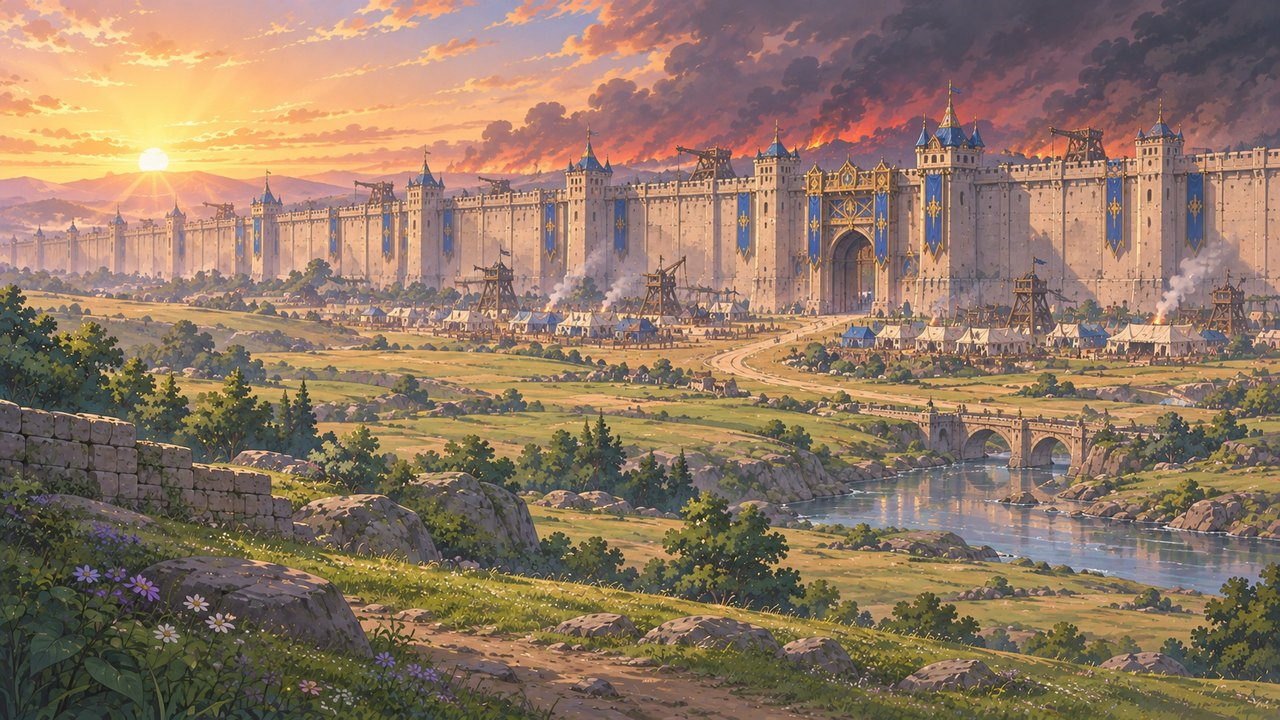
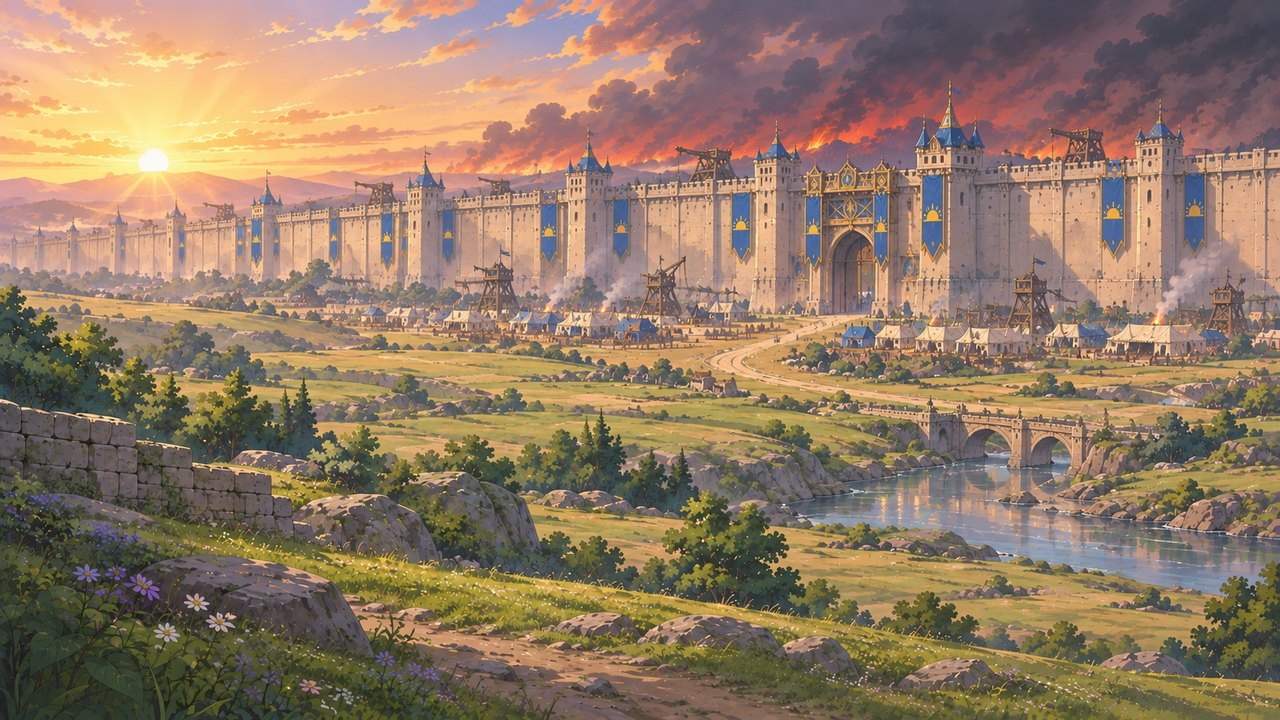
Mur d'Aube : bannières au soleil levant (retouche)
Claude-Session: https://claude.ai/code/session_017nNRFCQnckzBacTNwNAqUZ

diff --git a/CLAUDE.md b/CLAUDE.md
@@ -23,7 +23,7 @@ Si une demande est floue ou contradictoire : poser la question plutôt que devin
 - [x] **Mise à jour 5 (retours de test, version web, 16/11)** : 8 points, voir « Décisions de la mise à jour 5 » et `rapports/changements-test-5.md`. **Roblox doit la reprendre** (liste « À reprendre — mise à jour 5 » dans `roblox/README-ROBLOX.md`). Image du Golem de la Fontaine et calque de l'héroïne naine (tresses) validés le 16/11.
 - [x] **Quêtes secondaires « du monde » (18/11, à valider par le groupe)** : 7 quêtes (2 au chapitre 1, puis 1 par chapitre) dans de nouveaux fichiers `content/campagne/saison-1/chapitre-N/quetes-monde.yaml` (lieux, PNJ, décors et combats existants, aucune image à faire) ; elles préparent les révélations (Appels et Voile, éther, Orvan trahi). Textes, choix et drapeaux : `rapports/quetes-monde.md` ; test `tests/quetes-monde.test.ts`. Roblox : régénérer le contenu.
 - [x] **Lecteur de cinématiques (19/11, web)** : champ `cinematique: <id>` d'une scène (`ch1-appel` → `appel`, `ch1-lanternes` → `lanternes`) ; vidéo `assets/cinematiques/<id>.mp4` jouée en plein cadre au premier nœud, bouton « Passer » (Échap), retenue « vue » par appareil et par partie (`src/ui/Cinematique.svelte`, `src/ui/cinematiques.ts`). Sans fichier, rien ne change. **Vidéos livrées le 23/11** (montages muets de Sasha, réencodés en H.264 CRF 25 : `appel.mp4` 46 s, 8,6 Mo ; `lanternes.mp4` 40 s, 11,3 Mo) ; le groupe peut encore demander des changements. Quand un robot de test pilote le navigateur (Playwright), la vidéo est masquée sauf avec `?cinematique` dans l'adresse (`masqueParRobot`). Tests : `tests/cinematiques.test.ts`, `tests/e2e/cinematique.mjs` (s'arrête sans rien vérifier s'il n'y a pas de vidéo).
-- [x] **Écrans de début de chapitre (23/11, web)** : grande illustration peinte + « Chapitre I » + titre + sous-titre, une fois par partie et par appareil, seulement quand le héros est libre sur la carte (pas pendant une scène, un combat, un donjon, un repos proposé ni la fenêtre « Votre héros »). Réglages : `content/config/illustrations.yaml` (clé `ecrans_chapitre`, validée par zod ; chapitre 4 = Ardenclume et Port-Vérane en fondu) ; images `assets/illustrations/<id>.jpg` (1280 × 720, paysages ChatGPT de Sasha, Lysmont = version retouchée ; **Mur d'Aube : bannières encore à retoucher**). Code : `src/ui/EcranChapitre.svelte`, `src/ui/illustrations.ts`. Masqué pour les robots de test sauf `?ecran-chapitre`. Tests : `tests/illustrations.test.ts` (titres = quête principale, images présentes), `tests/e2e/ecran-chapitre.mjs` (3 écrans, `rapports/captures-illustrations/`).
+- [x] **Écrans de début de chapitre (23/11, web)** : grande illustration peinte + « Chapitre I » + titre + sous-titre, une fois par partie et par appareil, seulement quand le héros est libre sur la carte (pas pendant une scène, un combat, un donjon, un repos proposé ni la fenêtre « Votre héros »). Réglages : `content/config/illustrations.yaml` (clé `ecrans_chapitre`, validée par zod ; chapitre 4 = Ardenclume et Port-Vérane en fondu) ; images `assets/illustrations/<id>.jpg` (1280 × 720, paysages ChatGPT de Sasha, Lysmont = version retouchée ; Mur d'Aube : bannières retouchées le 23/11 (soleil levant)). Code : `src/ui/EcranChapitre.svelte`, `src/ui/illustrations.ts`. Masqué pour les robots de test sauf `?ecran-chapitre`. Tests : `tests/illustrations.test.ts` (titres = quête principale, images présentes), `tests/e2e/ecran-chapitre.mjs` (3 écrans, `rapports/captures-illustrations/`).
 - [ ] **Portage Roblox (décidé le 13/11)** : voir `roblox/README-ROBLOX.md`. R0 validé dans Studio le 13/11 ; R1 à R5 écrits le 13/11 (parties à code, DataStore, Lysmont 3D, dialogues/votes, combats 3D + IA, donjon, temps libre, tout public), **à tester par Nathan** avec les listes de `roblox/README-ROBLOX.md`
 
 ## Décisions validées (étape 0)
